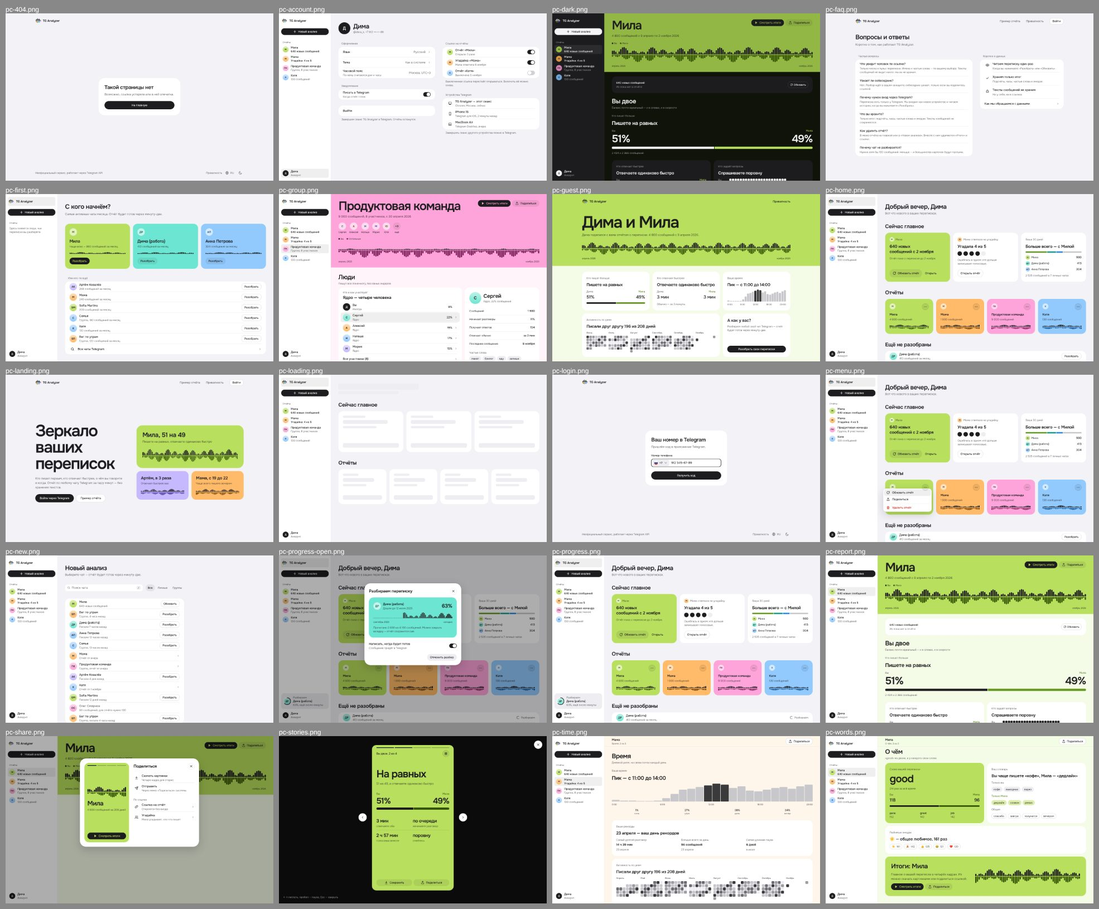
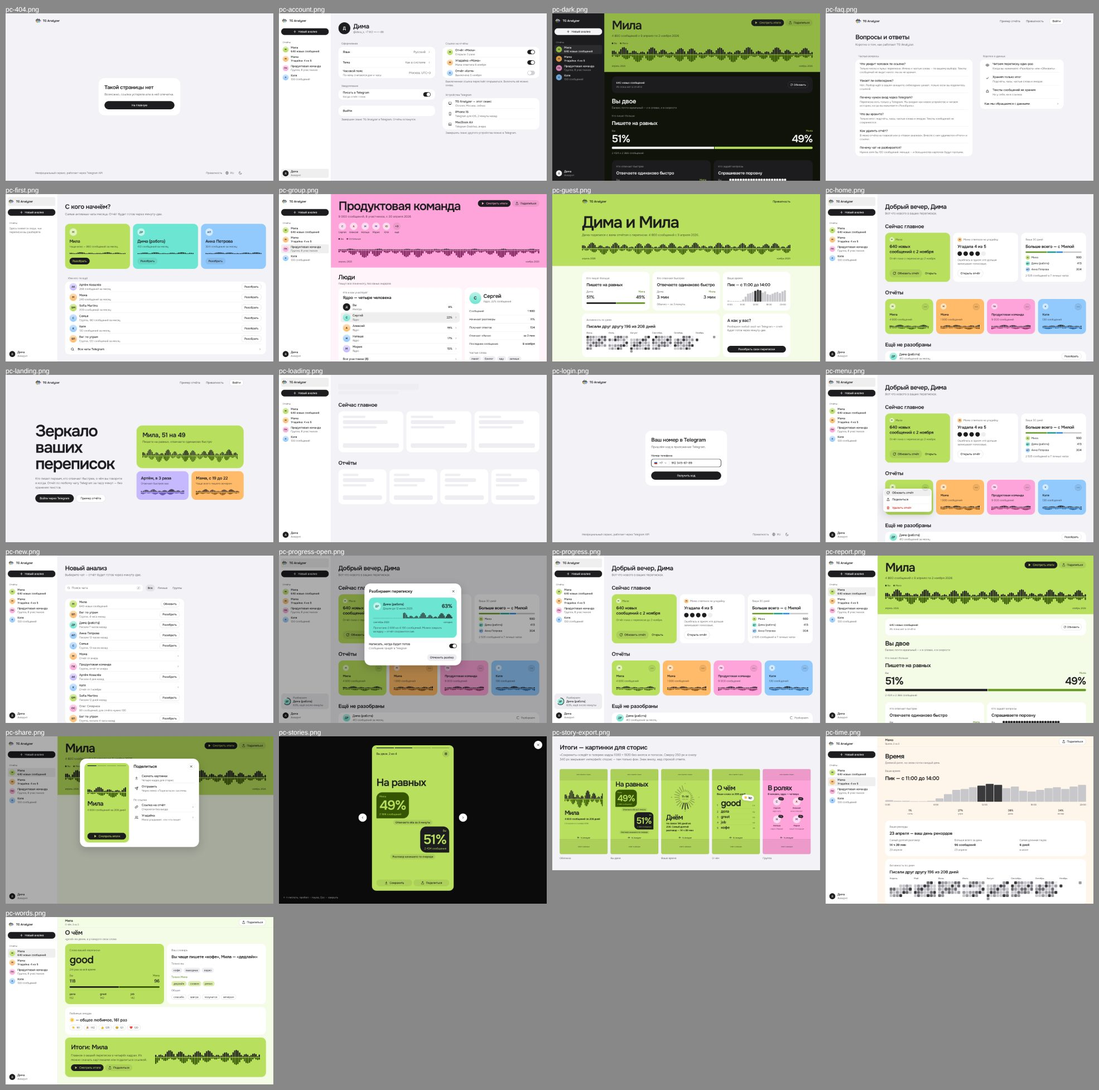
Stories mockups: four frames, four devices, ready for sharing
Cover keeps the pulse; "You two" is a chat of two bubbles, "Time" a clock
face, "Words" a numbered top five with an emoji sticker, the group a class
photo. A 1080x1920 board shows the stories safe zone. The country code pill
in the phone field is inset evenly with concentric corners.

Claude-Session: https://claude.ai/code/session_0138LxsFKP5n8SxjtSAnZS23

diff --git a/docs/design/portrait-v3/generator/phone.py b/docs/design/portrait-v3/generator/phone.py
@@ -286,42 +286,82 @@ STORY_ACTIONS = f'<div class="story-actions">{btn("Сохранить", "poster-
 
 def story(content, i=1, n=4, label='Итоги: Мила'):
     seg_ = f'<div class="story-seg" style="grid-template-columns:repeat({n},1fr)" role="progressbar" aria-valuemin="1" aria-valuemax="{n}" aria-valuenow="{i}" aria-label="Кадр {i} из {n}">' + ''.join(f'<i class="{"on" if k < i else ""}"></i>' for k in range(n)) + '</div>'
-    return f'''<div class="poster stack" style="height:100%;padding:var(--space-3) var(--page-gutter) var(--space-8)" role="dialog" aria-modal="true" aria-label="Итоги">
+    return f'''<div class="poster stack story" style="height:100%;padding:var(--space-3) var(--page-gutter) var(--space-8)" role="dialog" aria-modal="true" aria-label="Итоги">
   {seg_}
   <div class="row-f between" style="margin-top:var(--space-3)"><span class="t-ui">{label}</span><span class="row-f gap-2">{ibtn('pause', 'Пауза', 'on-poster')}{ibtn('x', 'Закрыть', 'on-poster')}</span></div>
-  {content}
+  <div class="story-body">{content}</div>
   {STORY_ACTIONS}
 </div>'''
 
 
+def story_still(content, w=390):
+    """The saved 1080 × 1920 picture: the same frame without controls, the mark at the foot, all of it inside the stories safe zone."""
+    return (f'<div class="poster stack story still" style="width:{w}px;aspect-ratio:9/16">'
+            f'<div class="story-body">{content}</div><div class="story-mark">{logo(20, bare=True)}<span>TG Analyzer</span></div></div>')
+
+
+# Four frames, four devices (after Spotify Wrapped, Strava, Duolingo): the cover pulse, a chat, a clock face, a top-five list.
+# Shared only by the poster colour, Onest and ink for «you»; each frame has its own composition.
+import math
+
+FRAME_COVER = f'''<div class="st-art">{pulse(40, 72, 1.0)}</div>
+  <div class="stack gap-3 poster-name"><h1 class="t-display">Мила</h1><p class="st-lede">4 800 сообщений за 208 дней</p>
+  <p class="t-small muted">С 9 апреля по 2 ноября 2026</p></div>'''
+
+# a conversation: her bubble on the left in her deep tone, yours on the right in ink, a Telegram service pill between
+FRAME_TOGETHER = '''<h1 class="t-display">На равных</h1>
+  <div class="st-chat" role="img" aria-label="Мила — 49%, вы — 51%">
+  <div class="bubble them"><span>Мила</span><b>49%</b><span>2 366 сообщений</span></div>
+  <p class="service">Отвечаете оба за 3 минуты</p>
+  <div class="bubble you"><span>Вы</span><b>51%</b><span>2 434 сообщения</span></div>
+  <p class="service">Разговор начинаете по очереди</p></div>'''
+
+_HOURS = [2, 1, 1, 0, 0, 1, 4, 9, 14, 15, 17, 19, 21, 20, 16, 18, 13, 12, 14, 16, 17, 15, 18, 20]
+
+
+def _dial(size=300):
+    c, r0 = size / 2, 60
+    rays = ''
+    for k, v in enumerate(_HOURS):
+        ang = math.radians(k * 15 - 90)
+        r1 = r0 + 10 + v / 21 * 54
+        rays += (f'<line x1="{c + r0 * math.cos(ang):.1f}" y1="{c + r0 * math.sin(ang):.1f}" x2="{c + r1 * math.cos(ang):.1f}" y2="{c + r1 * math.sin(ang):.1f}" '
+                 f'class="{"hot" if 11 <= k <= 13 else ""}"/>')
+    marks = ''.join(f'<text x="{c + 140 * math.cos(math.radians(h * 15 - 90)):.1f}" y="{c + 140 * math.sin(math.radians(h * 15 - 90)) + 4:.1f}">{h}</text>' for h in (0, 6, 12, 18))
+    return (f'<svg class="st-dial" viewBox="0 0 {size} {size}" role="img" aria-label="Сутки по часам: больше всего с 11 до 14">{rays}{marks}'
+            f'<text x="{c}" y="{c + 2}" class="big">11–14</text><text x="{c}" y="{c + 24}" class="cap">ваши часы</text></svg>')
+
+
+# a clock face: the day as a dial, the peak in ink
+FRAME_TIME = f'''<div class="st-dial-wrap">{_dial()}</div>
+  <div class="stack gap-2"><h1 class="t-display">Днём</h1>
+  <p class="st-lede">На связи 196 дней из 208. Самый долгий разговор — 14 ч 39 мин</p></div>'''
+
+# a top five, numbered like a chart, with the favourite emoji as a sticker
+_TOP = [('good', 214), ('дела', 152), ('great', 142), ('job', 142), ('кофе', 96)]
+FRAME_WORDS = ('''<div class="stack gap-2"><h1 class="t-display">О чём</h1><p class="st-lede">Ваши слова за 208 дней</p></div>
+  <div class="st-top-wrap"><ol class="st-top">'''
+               + ''.join(f'<li><span class="n">{i}</span><b>{w}</b><span class="c">{n}</span></li>' for i, (w, n) in enumerate(_TOP, 1))
+               + '''</ol><span class="st-sticker" aria-label="Любимый эмодзи — солнце, 161 раз">☀ 161</span></div>''')
+
+STORY_TOGETHER = FRAME_TOGETHER  # used by the desktop stories board
+N = 4
+
+
 def S_story_cover():
-    c = f'''<div class="stack grow gap-6 story-body">
-  {pulse(40, 72, 1.0)}
-  <div class="stack gap-3 poster-name"><h1 class="t-display">Мила</h1><p class="t-h3">4 800 сообщений за 208 дней</p>
-  <p class="t-small muted">С 9 апреля по 2 ноября 2026</p></div>
-</div>'''
-    return page('Итоги — обложка', story(c, 1, label='Итоги, 1 из 4'), hue='green')
-
-
-STORY_TOGETHER = f'''<div class="stack grow gap-8 story-body">
-  <div class="stack gap-3"><h1 class="t-display">На равных</h1><p class="t-body muted">51 на 49, и отвечаете одинаково быстро</p></div>
-  <div class="big">{cmp('Вы', 'Мила', '51%', '49%', 51)}</div>
-  <div class="facts"><div><b>3 мин</b><span>отвечаете оба</span></div><div><b>по очереди</b><span>начинаете разговор</span></div>
-  <div><b>2 ч 57 мин</b><span>голосовых вместе</span></div><div><b>поровну</b><span>смеётесь</span></div></div>
-</div>'''
+    return page('Итоги — обложка', story(FRAME_COVER, 1, N, label='Итоги, 1 из 4'), hue='green')
 
 
 def S_story():
-    return page('Итоги — Вы двое', story(STORY_TOGETHER, 2, label='Вы двое, 2 из 4'), hue='green')
+    return page('Итоги — Вы двое', story(FRAME_TOGETHER, 2, N, label='Вы двое, 2 из 4'), hue='green')
+
+
+def S_story_time():
+    return page('Итоги — Ваше время', story(FRAME_TIME, 3, N, label='Ваше время, 3 из 4'), hue='green')
 
 
 def S_story_end():
-    c = f'''<div class="stack grow gap-8 story-body">
-  <h1 class="t-display">Вы и Мила</h1>
-  <div class="facts"><div><b>51 на 49</b><span>пишете на равных</span></div><div><b>11–14</b><span>ваши часы</span></div>
-  <div><b>«good»</b><span>слово переписки</span></div><div><b>196 дней</b><span>из 208 на связи</span></div></div>
-</div>'''
-    return page('Итоги — последний кадр', story(c, 4, label='Итоги, 4 из 4'), hue='green')
+    return page('Итоги — О чём', story(FRAME_WORDS, 4, N, label='О чём, 4 из 4'), hue='green')
 
 
 GROUP_MEMBERS = [('you', 'Вы', 'Иногда', '9%'), ('sergey', 'Сергей', 'Ядро', '22%'), ('alexey', 'Алексей', 'Ядро', '19%'), ('natasha', 'Наташа', 'Ядро', '17%'), ('maria', 'Мария', 'Ядро', '15%')]
@@ -497,8 +537,9 @@ def login(content):
 
 
 def phone_field(code='ru', dial='+7', number='912 345-67-89', state='focus'):
-    return (f'<div class="field {state}" style="padding-left:var(--space-2)"><button class="row-f gap-2 t-ui" style="height:36px;padding:0 var(--space-2);border-radius:var(--radius-xs);background:var(--surface-2)" '
-            f'aria-label="Код страны: {dial}" aria-haspopup="menu">{flag(code, 20)}{dial}{ic("down")}</button><span>{number}</span></div>')
+    # the code is part of the field, not a pill inside it: one inset, a hairline between code and number
+    return (f'<div class="field {state}"><button class="cc" aria-label="Код страны: {dial}" aria-haspopup="menu">{flag(code, 20)}<span>{dial}</span>{ic("down")}</button>'
+            f'<span>{number}</span></div>')
 
 
 def country_menu(top, left, width):
@@ -557,8 +598,8 @@ SCREENS = [
     ('ph-session', 'Сеанс Telegram завершён', S_session), ('ph-account', 'Аккаунт', S_account), ('ph-privacy', 'Как мы обращаемся с данными', S_privacy),
     ('ph-report', 'Отчёт — постер', S_report), ('ph-together', 'Отчёт — Вы двое', S_together), ('ph-time', 'Отчёт — Время', S_time),
     ('ph-words', 'Отчёт — О чём', S_words), ('ph-ending', 'Отчёт — конец', S_ending), ('ph-share', 'Лист «Поделиться»', S_share),
-    ('ph-link', 'Ссылка на отчёт', S_link), ('ph-story-cover', 'Итоги — обложка', S_story_cover), ('ph-story', 'Итоги — Вы двое', S_story),
-    ('ph-story-end', 'Итоги — последний кадр', S_story_end), ('ph-group', 'Группа — Люди', S_group), ('ph-group-talk', 'Группа — Общение', S_group_talk),
+    ('ph-link', 'Ссылка на отчёт', S_link), ('ph-story-cover', 'Итоги — обложка', S_story_cover), ('ph-story', 'Итоги — Вы двое', S_story), ('ph-story-time', 'Итоги — Ваше время', S_story_time),
+    ('ph-story-end', 'Итоги — О чём', S_story_end), ('ph-group', 'Группа — Люди', S_group), ('ph-group-talk', 'Группа — Общение', S_group_talk),
     ('ph-member', 'Группа — участник', S_member), ('ph-guest', 'Гость — отчёт', S_guest), ('ph-quiz-start', 'Гость — угадайка, старт', S_quiz_start),
     ('ph-quiz', 'Гость — угадайка, вопрос', S_quiz), ('ph-quiz-end', 'Гость — угадайка, итог', S_quiz_end), ('ph-link-off', 'Гость — ссылка не работает', S_link_off),
     ('ph-dark-home', 'Тёмная — главная', lambda: S_home('dark')), ('ph-dark-report', 'Тёмная — отчёт', lambda: S_report('dark')),

diff --git a/docs/design/portrait-v3/generator/system.py b/docs/design/portrait-v3/generator/system.py
@@ -340,6 +340,11 @@ CSS = r"""
 .field.focus { box-shadow: inset 0 0 0 2px var(--accent); background: var(--surface); }
 .field.error { box-shadow: inset 0 0 0 2px var(--danger); }
 .field .ph { color: var(--text-muted); }
+/* country code: a pill inset 4 on every side, its corners concentric with the field (12 − 4 = 8) */
+.field:has(> .cc) { padding-left: var(--space-1); }
+.field .cc { display: flex; align-items: center; gap: var(--space-2); height: calc(var(--control-lg) - 2 * var(--space-1)); padding: 0 var(--space-2) 0 var(--space-2); border-radius: var(--radius-xs); background: var(--surface-2); font: var(--text-body); color: var(--text); }
+.field.focus .cc { background: var(--surface-2); }
+.field .cc svg { width: 16px; height: 16px; }
 .field svg { width: 20px; height: 20px; color: var(--text-muted); }
 .search { display: flex; align-items: center; gap: var(--space-2); height: var(--control-md); padding: 0 var(--space-3); border-radius: var(--radius-sm); background: var(--surface-2); font: var(--text-body); color: var(--text-muted); }
 .search svg { width: 16px; height: 16px; }
@@ -441,7 +446,46 @@ CSS = r"""
   --text-h2: 600 24px/32px var(--font-sans); --text-h3: 600 20px/28px var(--font-sans); }
 .cover-thumb { width: 72px; height: 128px; flex: none; border-radius: var(--radius-sm); background: var(--poster); box-shadow: inset 0 0 0 1px var(--on-poster-line);
   padding: var(--space-2); display: flex; flex-direction: column; justify-content: space-between; }
-.story-body { justify-content: flex-start; padding-top: var(--space-16); }
+/* Итоги: one picture per frame, centred between the controls; the saved picture keeps the stories safe zone (250 / 340 of 1920) */
+.story-body { flex: 1; min-height: 0; display: flex; flex-direction: column; justify-content: center; gap: var(--space-6); }
+.story .t-display { line-height: 1; }
+.st-art { display: flex; flex-direction: column; justify-content: flex-end; }
+.st-lede { font: var(--text-h3); letter-spacing: var(--tracking-h3); text-wrap: balance; }
+/* «Вы двое»: a conversation — her bubble left in her deep tone, yours right in ink, Telegram service pills between */
+.st-chat { display: flex; flex-direction: column; gap: var(--space-2); }
+.bubble { display: flex; flex-direction: column; gap: var(--space-0-5); max-width: 72%; padding: var(--space-3) var(--space-4); border-radius: var(--radius-xl); color: var(--poster); font: var(--text-small); }
+.bubble b { font: var(--text-display); font-size: 72px; line-height: 72px; letter-spacing: var(--tracking-display); }
+.bubble.them { align-self: flex-start; background: var(--on-them); border-bottom-left-radius: var(--radius-mark); }
+.bubble.you { align-self: flex-end; background: var(--on-poster); border-bottom-right-radius: var(--radius-mark); text-align: right; }
+.service { align-self: center; padding: var(--space-1) var(--space-3); border-radius: var(--radius-full); background: var(--on-poster-chip); font: var(--text-small-strong); }
+/* «Время»: the day as a clock face */
+.st-dial-wrap { display: flex; justify-content: center; }
+.st-dial { width: 280px; height: 280px; overflow: visible; }
+.story.still .st-dial { width: 240px; height: 240px; }
+.st-dial line { stroke: var(--on-poster-faint); stroke-width: 8; stroke-linecap: round; }
+.st-dial line.hot { stroke: var(--on-poster); }
+.st-dial text { fill: var(--on-poster-muted); font: var(--text-caption); text-anchor: middle; }
+.st-dial text.big { fill: var(--on-poster); font: var(--text-h1); letter-spacing: var(--tracking-h1); }
+/* «О чём»: a numbered top five and the favourite emoji as a sticker */
+.st-top-wrap { position: relative; }
+.st-top { list-style: none; margin: 0; padding: 0; }
+.st-top li { display: grid; grid-template-columns: var(--space-8) 1fr auto; align-items: baseline; padding: var(--space-1) 0; box-shadow: inset 0 -1px 0 var(--on-poster-line); }
+.st-top li:last-child { box-shadow: none; }
+.st-top .n { font: var(--text-h3); color: var(--on-poster-muted); }
+.st-top b { font: var(--text-h1); letter-spacing: var(--tracking-h1); }
+.st-top li:first-child b { font: var(--text-display); font-size: 72px; line-height: 80px; letter-spacing: var(--tracking-display); }
+.st-top .c { font: var(--text-small); color: var(--on-poster-muted); }
+.st-sticker { position: absolute; right: var(--space-2); top: calc(-1 * var(--space-6)); transform: rotate(8deg); padding: var(--space-2) var(--space-4); border-radius: var(--radius-full); background: var(--surface); color: var(--text); font: var(--text-h2); letter-spacing: var(--tracking-h2); box-shadow: var(--shadow-float); }
+/* group: a class photo, the share pinned on each portrait */
+.st-cast { display: grid; grid-template-columns: 1fr 1fr; gap: var(--space-6) var(--space-3); }
+.st-cast > div { display: flex; flex-direction: column; align-items: center; text-align: center; gap: var(--space-1); }
+.st-cast .pic { position: relative; margin-bottom: var(--space-1); }
+.poster .st-cast .av { background: linear-gradient(var(--room-tint), var(--poster)); color: var(--on-them); box-shadow: 0 0 0 2px var(--on-poster-chip); }
+.st-cast .pct { position: absolute; left: 44px; top: calc(-1 * var(--space-1)); transform: rotate(8deg); padding: var(--space-0-5) var(--space-2); border-radius: var(--radius-full); background: var(--on-poster); color: var(--poster); font: var(--text-small-strong); font-style: normal; white-space: nowrap; }
+.story.still { flex: none; padding: 23.1% var(--page-gutter) 31.5%; border-radius: var(--radius-sm); overflow: hidden; }
+.story.still .story-body { gap: var(--space-4); }
+.story-mark { display: flex; align-items: center; justify-content: center; gap: var(--space-2); font: var(--text-small-strong); padding-top: var(--space-4); }
+.safe-zone { position: absolute; left: 0; right: 0; border: 1px dashed var(--on-poster-faint); background: var(--on-poster-chip); display: flex; align-items: center; justify-content: center; font: var(--text-caption); color: var(--on-poster-muted); }
 /* Controls that float over content — header circles, sheet close, the bottom pill, the progress capsule, «+» — are one family:
    44 on the phone, pill or circle, raised surface, hairline ring, one soft shadow. On a poster the same shape, translucent. */
 .ph .icon-btn { width: var(--control-lg); height: var(--control-lg); }

diff --git a/docs/design/portrait-v3/generator/extra.py b/docs/design/portrait-v3/generator/extra.py
@@ -1,7 +1,7 @@
 """States and screens that complete the set: loading, errors, limits, empty, narrow, English, FAQ, 404, group stories.
 Built only from kit/phone/desktop parts — if a screen needs something new, the system is incomplete."""
 from kit import *
-from phone import (home, lead_mila, FAB, sec, REPORT_TILES, waiting_rows, poster_ph, chapter_head, story, STORY_ACTIONS, dim_home,
+from phone import (FRAME_COVER, FRAME_TOGETHER, FRAME_TIME, FRAME_WORDS, story_still, home, lead_mila, FAB, sec, REPORT_TILES, waiting_rows, poster_ph, chapter_head, story, STORY_ACTIONS, dim_home,
                    sheet_head, new_rows, NEW_DATA, S_share, SHARE_ROWS, stories_feature, ph_plain_nav, S_report, S_together)
 from desktop import shell, home_main, sec as dsec, pub_header, pub_footer
 
@@ -111,12 +111,15 @@ def S_404():
     return page('404', body)
 
 
+# a class photo: the four who carry the chat, their share pinned on as stickers
+GROUP_CAST = [('sergey', 'ядро чата', 22), ('alexey', 'всем отвечает', 19), ('natasha', 'пара с Марией', 17), ('maria', 'пишет последней', 15)]
+FRAME_GROUP = ('<div class="stack gap-2"><h1 class="t-display">В ролях</h1><p class="st-lede">8 человек, ядро — четверо</p></div><div class="st-cast">'
+               + ''.join(f'<div><span class="pic">{av(k, 64)}<i class="pct">{v}%</i></span><b class="t-title">{P[k][0]}</b><span class="t-small muted">{r}</span></div>' for k, r, v in GROUP_CAST)
+               + '</div>')
+
+
 def S_group_story():
-    c = f'''<div class="stack grow gap-8 story-body">
-  <div class="stack gap-3"><h1 class="t-display">В ролях</h1><p class="t-body muted">Пишут все понемногу, ядро — четыре человека</p></div>
-  <div class="stack">{''.join(row(av(k, 40), P[k][0], role, f'<span class="val">{v}</span>') for k, role, v in [('sergey', 'Ядро', '22%'), ('alexey', 'Отвечает больше всех', '19%'), ('natasha', 'Пара с Марией', '17%'), ('maria', 'Укладывает чат спать', '15%')])}</div>
-</div>'''
-    return page('Итоги группы — В ролях', story(c, 2, label='Люди, 2 из 4'), hue='pink')
+    return page('Итоги группы — В ролях', story(FRAME_GROUP, 2, label='Люди, 2 из 4'), hue='pink')
 
 
 def S_dark_share():
@@ -153,7 +156,22 @@ def D_404():
     return page('404', pub_header(nav=False) + f'<main class="grow row-f center">{card}</main>' + pub_footer(), pc=True)
 
 
+def D_story_export():
+    """What «Сохранить» puts in the gallery: 1080 × 1920, no controls, the mark at the foot, nothing under the stories interface."""
+    frames = [(FRAME_COVER, 'green', 'Обложка'), (FRAME_TOGETHER, 'green', 'Вы двое'), (FRAME_TIME, 'green', 'Ваше время'), (FRAME_WORDS, 'green', 'О чём'), (FRAME_GROUP, 'pink', 'Группа')]
+    zones = ('<span class="safe-zone" style="top:0;height:13%">имя и время сторис</span>'
+             '<span class="safe-zone" style="bottom:0;height:17.7%">ответ и реакции</span>')
+    cells = ''.join(f'''<figure class="stack gap-3" style="margin:0;width:257px"><div style="width:257px;height:457px;position:relative">
+  <div data-hue="{h}" class="phone-scale" style="transform:scale(0.66);transform-origin:top left;position:absolute;inset:0 auto auto 0">{story_still(c).replace('style="width:390px;aspect-ratio:9/16"', 'style="width:390px;aspect-ratio:9/16;position:relative"').replace('<div class="story-body">', zones + '<div class="story-body">', 1)}</div></div>
+  <figcaption class="t-small muted">{t}</figcaption></figure>''' for c, h, t in frames)
+    body = f'''<main class="page" style="padding:var(--space-10) var(--page-gutter)">
+  <div class="stack gap-2"><h1 class="t-h1">Итоги — картинки для сторис</h1>
+  <p class="t-body muted" style="max-width:72ch">«Сохранить» кладёт в галерею кадры 1080 × 1920 без кнопок и полосок. Сверху 250 px и снизу 340 px закрывает интерфейс сторис — там только фон. Знак внизу, над строкой ответа.</p></div>
+  <div class="row-f" style="gap:var(--space-4);align-items:flex-start">{cells}</div></main>'''
+    return page('Итоги — картинки для сторис', body, pc=True, h=720)
+
+
 PH_EXTRA = [('ph-loading', 'Главная — загрузка', S_loading), ('ph-failed', 'Разбор не удался', S_failed), ('ph-limit', 'Лимит на сегодня', S_limit),
             ('ph-empty', 'Нет чатов для разбора', S_empty), ('ph-narrow', '360 px, длинные имена', S_narrow), ('ph-english', 'Отчёт на английском', S_english),
             ('ph-faq', 'Вопросы и ответы', S_faq), ('ph-404', '404', S_404), ('ph-group-story', 'Итоги группы', S_group_story), ('ph-dark-share', 'Тёмная — «Поделиться»', S_dark_share)]
-PC_EXTRA = [('pc-loading', 'Главная — загрузка', D_loading), ('pc-faq', 'Вопросы и ответы', D_faq), ('pc-404', '404', D_404)]
+PC_EXTRA = [('pc-story-export', 'Итоги — картинки для сторис', D_story_export), ('pc-loading', 'Главная — загрузка', D_loading), ('pc-faq', 'Вопросы и ответы', D_faq), ('pc-404', '404', D_404)]

diff --git a/docs/design/portrait-v3/generator/desktop.py b/docs/design/portrait-v3/generator/desktop.py
@@ -191,10 +191,10 @@ def D_share():
 
 
 def D_stories():
-    slide = f'''<div class="poster stack phone-scale" data-hue="green" role="dialog" aria-modal="true" aria-label="Итоги, кадр 2 из 4" style="position:absolute;left:50%;top:48px;width:440px;height:782px;margin-left:-220px;border-radius:var(--radius-lg);padding:var(--space-3) var(--space-6) var(--space-6);overflow:hidden">
+    slide = f'''<div class="poster stack story phone-scale" data-hue="green" role="dialog" aria-modal="true" aria-label="Итоги, кадр 2 из 4" style="position:absolute;left:50%;top:48px;width:440px;height:782px;margin-left:-220px;border-radius:var(--radius-lg);padding:var(--space-3) var(--space-6) var(--space-6);overflow:hidden">
   <div class="story-seg" style="grid-template-columns:repeat(4,1fr)"><i class="on"></i><i class="on"></i><i></i><i></i></div>
   <div class="row-f between" style="margin-top:var(--space-3)"><span class="t-ui">Вы двое, 2 из 4</span>{ibtn('pause', 'Пауза', 'on-poster')}</div>
-  {STORY_TOGETHER}{STORY_ACTIONS.replace('"btn btn-poster-2 lg', '"btn btn-poster-2 md')}</div>'''
+  <div class="story-body">{STORY_TOGETHER}</div>{STORY_ACTIONS.replace('"btn btn-poster-2 lg', '"btn btn-poster-2 md')}</div>'''
     nav = (f'<button class="icon-btn lg" aria-label="Предыдущий кадр" style="position:absolute;left:428px;top:415px">{ic("back")}</button>'
            f'<button class="icon-btn lg" aria-label="Следующий кадр" style="position:absolute;right:428px;top:415px">{ic("chev")}</button>'
            f'<button class="icon-btn lg" aria-label="Закрыть" style="position:absolute;right:var(--space-6);top:var(--space-6)">{ic("x")}</button>'

diff --git a/docs/design/portrait-v3/README.md b/docs/design/portrait-v3/README.md
@@ -2,11 +2,11 @@
 
 Холст: https://claude.ai/artifact/FUWquFyzchDaEbHZ6BW98a, страница «Продукт: система и все экраны». Холст открыт по ссылке. На второй странице в архиве лежат концепты A, B, C.
 
-Это 69 досок:
+Это 71 доска:
 
 - 2 доски системы: токены, компоненты и состояния;
-- 45 экранов телефона (390 × 844; одна доска — 360 px);
-- 20 экранов ПК (1440 × 900);
+- 46 экранов телефона (390 × 844; одна доска — 360 px);
+- 21 экран ПК (1440 × 900; картинки сторис — 1440 × 720);
 - 2 экрана планшета (820 × 1180).
 
 Сводные листы лежат в `sheets/`: `phone.jpg`, `desktop.jpg`, `tablet.jpg`, `system.jpg`.
@@ -71,6 +71,19 @@
 | 21    | Аккаунт                                                    | Язык и тема — строки со значением. Раздела «Данные» нет. Добавлены «Ссылки на отчёты» с переключателями и «Устройства Telegram». На ПК — две колонки                                                                  |
 | 22    | Коды стран, порог сообщений                                | Россия, Украина, Беларусь и Казахстан — первыми, с флагами, страна подставляется сама. Чат меньше 100 сообщений разобрать нельзя. Сделано и в коде, см. ниже                                                          |
 | 23    | Меню отчёта на телефоне                                    | «⋯» на каждой карточке отчёта открывает лист «Обновить, Поделиться, Удалить». Долгое нажатие осталось как ускоритель                                                                                                  |
+
+## Раунд 6: «Итоги» для сторис (09.11)
+
+У каждого кадра свой приём (по мотивам Spotify Wrapped, Strava, Duolingo). Общее только у цвета человека, шрифта Onest и чернил для «вас».
+
+- **Обложка** — пульс переписки, имя, «4 800 сообщений за 208 дней» (так и было, владельцу нравится).
+- **Вы двое** — переписка: пузырь Милы «49%» слева её глубоким тоном, ваш «51%» справа чернилами, между ними служебные плашки, как в Telegram («Отвечаете оба за 3 минуты», «Разговор начинаете по очереди»).
+- **Время** — циферблат суток: часы лучами, пик 11–14 чернилами, «Днём» и два факта.
+- **О чём** — топ-5 слов с номерами, первое — огромное; любимый эмодзи — наклейка.
+- **Группа** — «фото класса»: четыре портрета, доля каждого — наклейка, под портретом роль.
+- **Картинка 1080 × 1920** (`pc-story-export`) — кадр без кнопок и полосок, знак внизу. Сверху 250 px и снизу 340 px — только фон: там интерфейс сторис.
+
+Поле телефона: код страны — плашка с отступом 4 со всех сторон, скругление 8 концентрично полю (12).
 
 ## Раунд 5: свежий взгляд (09.11)
 

diff --git a/CLAUDE.md b/CLAUDE.md
@@ -1,6 +1,6 @@
 # TG Analyzer — контекст для Claude
 
-Читай этот файл в начале каждой сессии. План и статус работ — в `docs/ROADMAP.md`. Финальные макеты продукта («Портрет» v3, 69 досок, цель для переноса в код) — `docs/design/portrait-v3/README.md`. В конце сессии обнови ROADMAP. Правила дизайна — в `docs/design-system.md` (единственный источник), план и открытые вопросы — в `docs/design-plan.md`. `docs/design/` — архив редизайна 31.10–03.11.
+Читай этот файл в начале каждой сессии. План и статус работ — в `docs/ROADMAP.md`. Финальные макеты продукта («Портрет» v3, 71 доска, цель для переноса в код) — `docs/design/portrait-v3/README.md`. В конце сессии обнови ROADMAP. Правила дизайна — в `docs/design-system.md` (единственный источник), план и открытые вопросы — в `docs/design-plan.md`. `docs/design/` — архив редизайна 31.10–03.11.
 
 **Перед аудитом или правками** сделай `git fetch` и сверь ветку с `origin/main`: у владельца в рабочей копии бывают незакоммиченные правки и отставание от удалённой ветки.
 

diff --git a/docs/ROADMAP.md b/docs/ROADMAP.md
@@ -6,6 +6,13 @@
 
 ## ✅ Сделано
 
+### 2026-11-09 — «Портрет» v3: «Итоги» под сторис
+
+- Четыре кадра — четыре приёма: пульс (обложка), переписка пузырями (Вы двое), циферблат (Время), топ-5 с наклейкой (О чём); группа — «фото класса».
+- Доска картинки 1080 × 1920 с безопасными зонами сторис.
+- Код страны в поле телефона — плашка с ровным отступом 4 и концентричным скруглением.
+- 🔜 Перенос в код: `ReportStory.vue` / `StorySlide.vue` — новые композиции в `cqmin`; e2e `.story-slide__title` сохранить.
+
 ### 2026-11-09 — «Портрет» v3: свежий взгляд, Мила в лайме
 
 - Жёлтого в макетах нет: Мила лаймовая, «Время» и планшет — на Маме в оранжевом; тёмный жёлтый — золото без оливкового.
